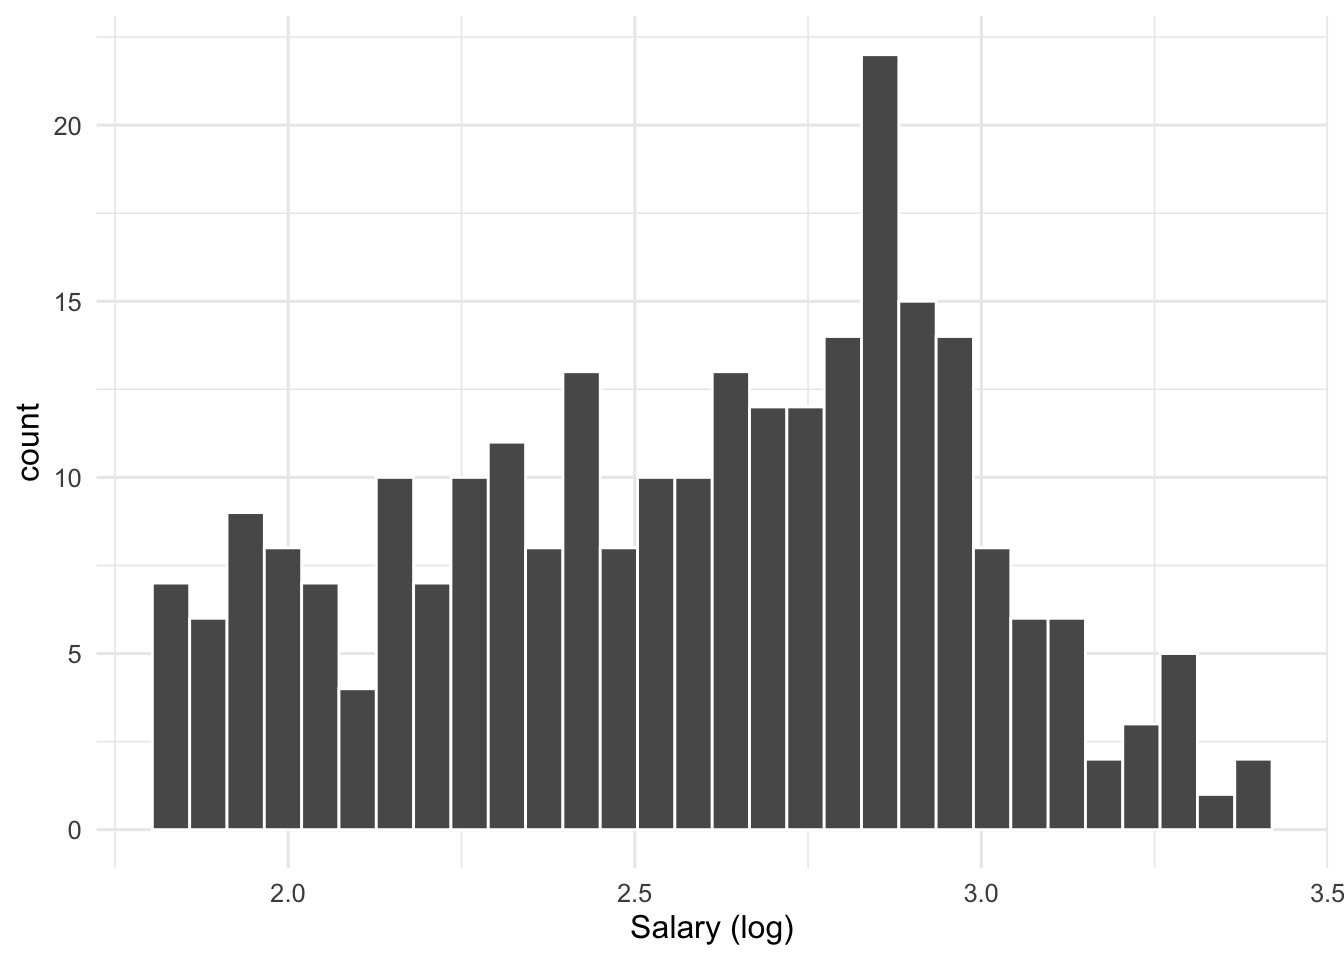
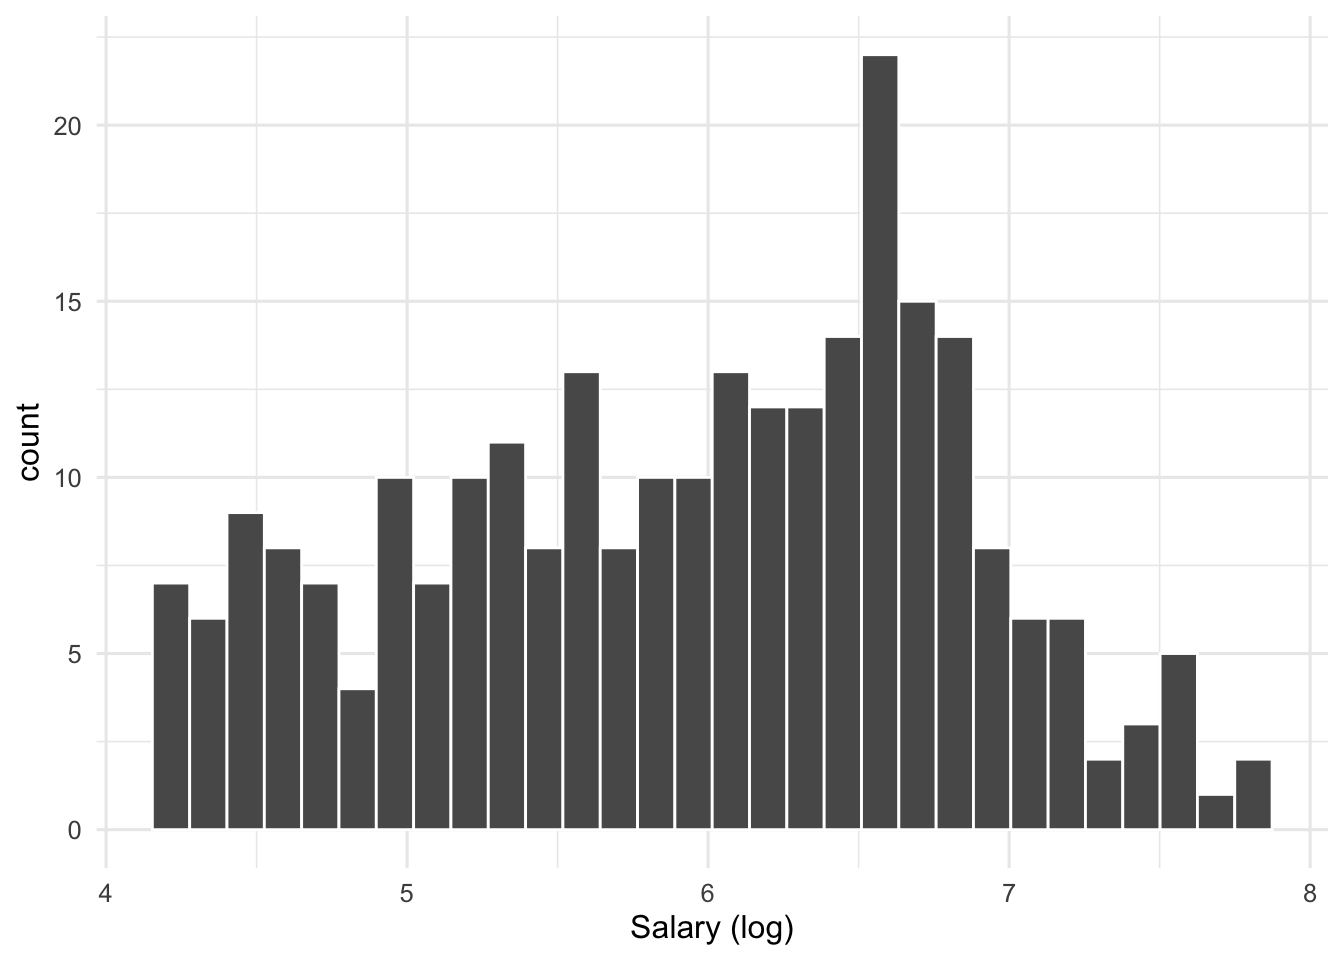
update lesson06

Changed region(s): [[0.9688, 0.9062, 1.0, 0.9375], [0.7188, 0.9062, 0.75, 0.9375]]

diff --git a/_site/lesson06/index.html b/_site/lesson06/index.html
@@ -314,7 +314,7 @@ $ NewLeague &lt;fct&gt; A, N, A, N, N, A, A, A, N, A, A, N, N, A, N, A, N, A, A,
 <details>
 <summary>Code</summary>
 <div class="sourceCode cell-code" id="cb4"><pre class="sourceCode r code-with-copy"><code class="sourceCode r"><span id="cb4-1"><a href="#cb4-1" aria-hidden="true" tabindex="-1"></a>Hitters <span class="ot">&lt;-</span> Hitters <span class="sc">%&gt;%</span></span>
-<span id="cb4-2"><a href="#cb4-2" aria-hidden="true" tabindex="-1"></a>  <span class="fu">mutate</span>(<span class="at">Salary_log =</span> <span class="fu">log10</span>(Salary))</span>
+<span id="cb4-2"><a href="#cb4-2" aria-hidden="true" tabindex="-1"></a>  <span class="fu">mutate</span>(<span class="at">Salary_log =</span> <span class="fu">log</span>(Salary))</span>
 <span id="cb4-3"><a href="#cb4-3" aria-hidden="true" tabindex="-1"></a></span>
 <span id="cb4-4"><a href="#cb4-4" aria-hidden="true" tabindex="-1"></a>Hitters <span class="sc">%&gt;%</span></span>
 <span id="cb4-5"><a href="#cb4-5" aria-hidden="true" tabindex="-1"></a>  <span class="fu">ggplot</span>(<span class="fu">aes</span>(<span class="at">x=</span>Salary_log)) <span class="sc">+</span> </span>
@@ -362,17 +362,53 @@ $ NewLeague &lt;fct&gt; A, N, A, N, N, A, A, A, N, A, A, N, N, A, N, A, N, A, A,
 <p><span class="math display">\[
 \text{RSS} = \sum_{j=1}^{J}\sum_{i \in R_{j}}(y_{i} - \bar{y}_{R_{j}})^2
 \]</span></p>
+<p>There is a major challenge to minimizing the RSS in this setting:</p>
+<blockquote class="blockquote">
+<p>It is infeasible to consider every possible partition of the space of predictors into <span class="math inline">\(J\)</span> boxes.</p>
+</blockquote>
+<p>Instead of an exhaustive search, the typical approach is what is known as <strong>recursive binary splitting</strong>. Here is how it works:</p>
+<ol type="1">
+<li><p>Select the predictor <span class="math inline">\(x_{j}\)</span> and a cutpoint <span class="math inline">\(s\)</span> such that splitting the predictor space into the regions <span class="math inline">\(\{{\bf x} | x_{j} &lt; s\}\)</span> and <span class="math inline">\(\{{\bf x} | x_{j} \geq s\}\)</span> produces the greatest possible reduction in RSS.</p></li>
+<li><p>Repeat the process, but this time, instead of splitting the entire predictor space, we split one of the two previously identified regions. This will result in three regions and we attempt to split one of those, etc. The process continues until a stopping criterion is reached. This algorithm is an example of a <em>greedy</em> algorithm because at each step of the tree-building process, the best split is made at that step.</p></li>
+</ol>
+<p><a href="#fig-three-split">Figure&nbsp;4</a> shows an example of splitting applied to the <code>Hitters</code> data set from the <code>ISLR2</code> package.</p>
+<div id="fig-three-split" class="quarto-figure quarto-figure-center anchored">
+<figure class="figure">
+<p><img src="https://www.dropbox.com/scl/fi/in7v3m89cpfm3y1llmaa9/8_2.jpg?rlkey=b70m3u4v1zpmrlcmhvrkh4s8s&amp;raw=1" class="img-fluid figure-img"></p>
+<figcaption class="figure-caption">Figure&nbsp;4: A three-region partition for the <code>Hitters</code> data set from the <code>ISLR2</code> package.</figcaption>
+</figure>
+</div>
+<p>We can represent this result by the tree diagram shown in <a href="#fig-three-split-tree">Figure&nbsp;5</a>.</p>
+<div id="fig-three-split-tree" class="quarto-figure quarto-figure-center anchored">
+<figure class="figure">
+<p><img src="https://www.dropbox.com/scl/fi/j6ar9pe82uhx3ea95mahe/8_1.jpg?rlkey=d78x4028k37sdzl3qu6d5bdvk&amp;raw=1" style="width:50.0%;height:50.0%" class="figure-img"></p>
+<figcaption class="figure-caption">Figure&nbsp;5: The tree diagram for the split shown in <a href="#fig-three-split">Figure&nbsp;4</a>.</figcaption>
+</figure>
+</div>
+<p>Once the regions <span class="math inline">\(R_{1}, R_{2}, \ldots, R_{J}\)</span> have been created, we predict the response for a given test observation using the mean of the training observations in the region to which that test observation belongs.</p>
+<p>Here is an example in R using the <code>rpart</code> package that fits and plots a similar decision tree model:</p>
+<div class="cell">
+<div class="sourceCode cell-code" id="cb6"><pre class="sourceCode r code-with-copy"><code class="sourceCode r"><span id="cb6-1"><a href="#cb6-1" aria-hidden="true" tabindex="-1"></a>hitters_dt <span class="ot">&lt;-</span> rpart<span class="sc">::</span><span class="fu">rpart</span>(Salary_log <span class="sc">~</span> Hits <span class="sc">+</span>Years,</span>
+<span id="cb6-2"><a href="#cb6-2" aria-hidden="true" tabindex="-1"></a>                           <span class="at">data=</span>Hitters,</span>
+<span id="cb6-3"><a href="#cb6-3" aria-hidden="true" tabindex="-1"></a>                           <span class="at">method=</span><span class="st">"anova"</span>,</span>
+<span id="cb6-4"><a href="#cb6-4" aria-hidden="true" tabindex="-1"></a>                           <span class="at">control=</span><span class="fu">list</span>(<span class="at">cp =</span> <span class="fl">0.1</span>,<span class="at">xval=</span><span class="dv">3</span>))</span>
+<span id="cb6-5"><a href="#cb6-5" aria-hidden="true" tabindex="-1"></a></span>
+<span id="cb6-6"><a href="#cb6-6" aria-hidden="true" tabindex="-1"></a>rpart.plot<span class="sc">::</span><span class="fu">rpart.plot</span>(hitters_dt)</span></code><button title="Copy to Clipboard" class="code-copy-button"><i class="bi"></i></button></pre></div>
+<div class="cell-output-display">
+<p><img src="index_files/figure-html/unnamed-chunk-8-1.png" class="img-fluid" width="672"></p>
+</div>
+</div>
 </section>
 </section>
 <section id="preparation-for-the-next-lesson" class="level2">
 <h2 class="anchored" data-anchor-id="preparation-for-the-next-lesson">Preparation for the next lesson</h2>
 <p>To prepare for the next lesson, please read:</p>
 <ul>
-<li><p>Read chapter 9 from of <em>An Introduction to Statistical Learning</em> <span class="citation" data-cites="tibshirani2017introduction">(<a href="#ref-tibshirani2017introduction" role="doc-biblioref">Tibshirani, James, and Trevor 2017</a>)</span>. You may also want to read chapter 9 of <em>Statistical Learning with Math and R</em> <span class="citation" data-cites="suzuki2020statistical">(<a href="#ref-suzuki2020statistical" role="doc-biblioref">Suzuki 2020</a>)</span>.</p></li>
-<li><p>Watch the following video lectures on support vector machines:</p>
+<li>Read chapter 9 from of <em>An Introduction to Statistical Learning</em> <span class="citation" data-cites="tibshirani2017introduction">(<a href="#ref-tibshirani2017introduction" role="doc-biblioref">Tibshirani, James, and Trevor 2017</a>)</span>. You may also want to read chapter 9 of <em>Statistical Learning with Math and R</em> <span class="citation" data-cites="suzuki2020statistical">(<a href="#ref-suzuki2020statistical" role="doc-biblioref">Suzuki 2020</a>)</span>.</li>
+</ul>
+<p>Watch the following video lectures on support vector machines:</p>
 <ul>
 <li><a href="https://youtu.be/pjvnCEfAswc?si=5I-xmhB3Y006RP0Y">View Supoprt Vector Classifier video on YouTube</a>.</li>
-</ul></li>
 </ul>
 <div class="cell">
 <div class="cell-output-display">
@@ -383,7 +419,9 @@ $ NewLeague &lt;fct&gt; A, N, A, N, N, A, A, A, N, A, A, N, N, A, N, A, N, A, A,
 </div>
 </div>
 </div>
-<pre><code>* [View Supoprt Vector Classifiers in R video on YouTube](https://youtu.be/WCRwbrNWrpw?si=rkEz30HgpeBK9VTD).</code></pre>
+<ul>
+<li><a href="https://youtu.be/WCRwbrNWrpw?si=rkEz30HgpeBK9VTD">View Supoprt Vector Classifiers in R video on YouTube</a>.</li>
+</ul>
 <div class="cell">
 <div class="cell-output-display">
 <div class="vembedr" align="center">
